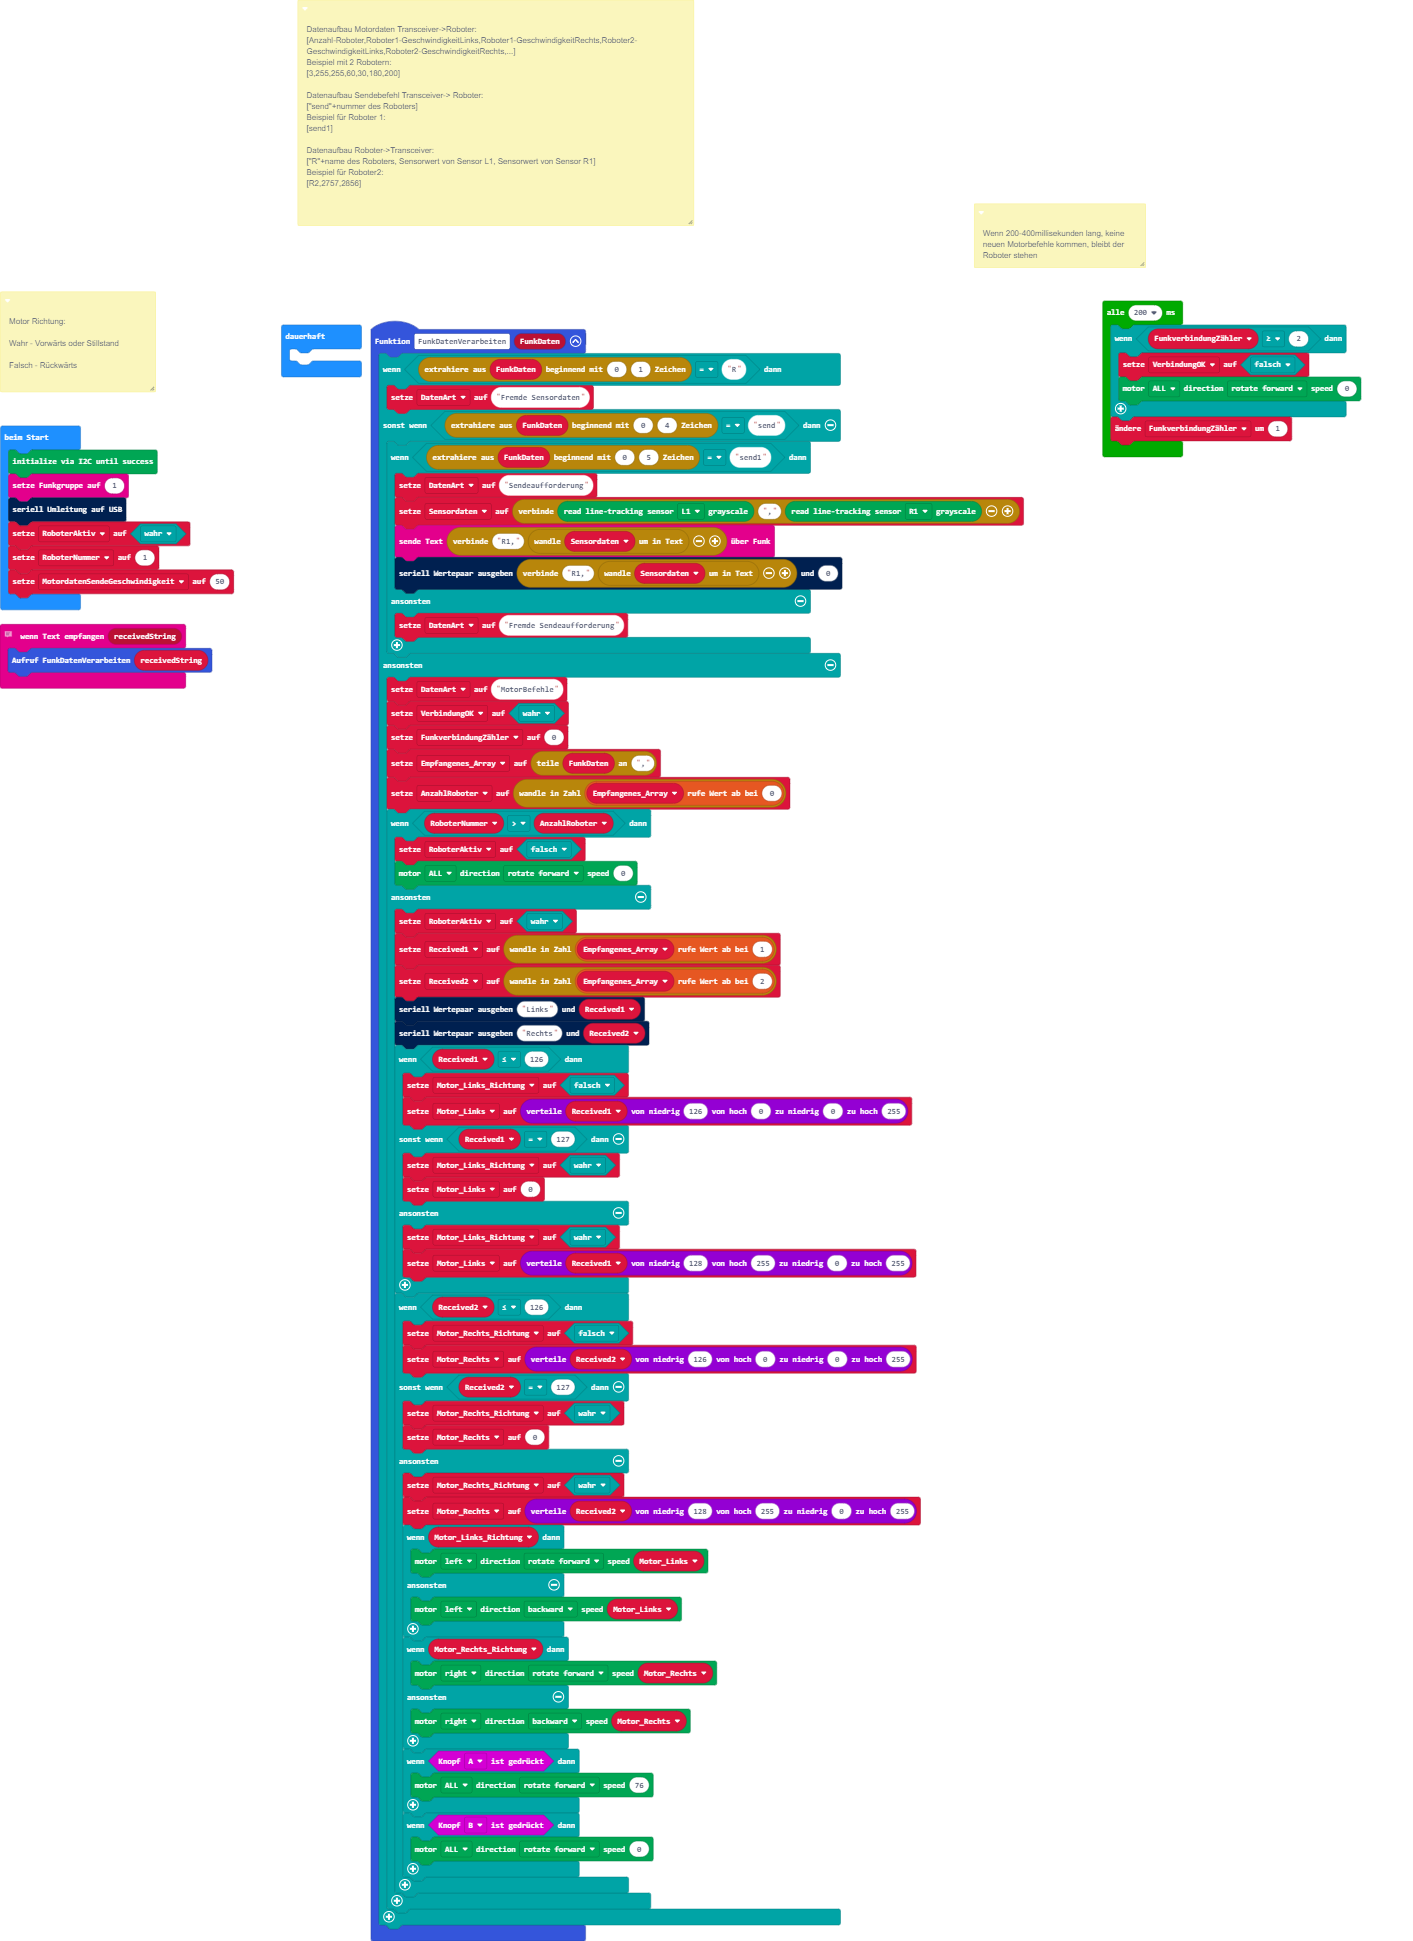
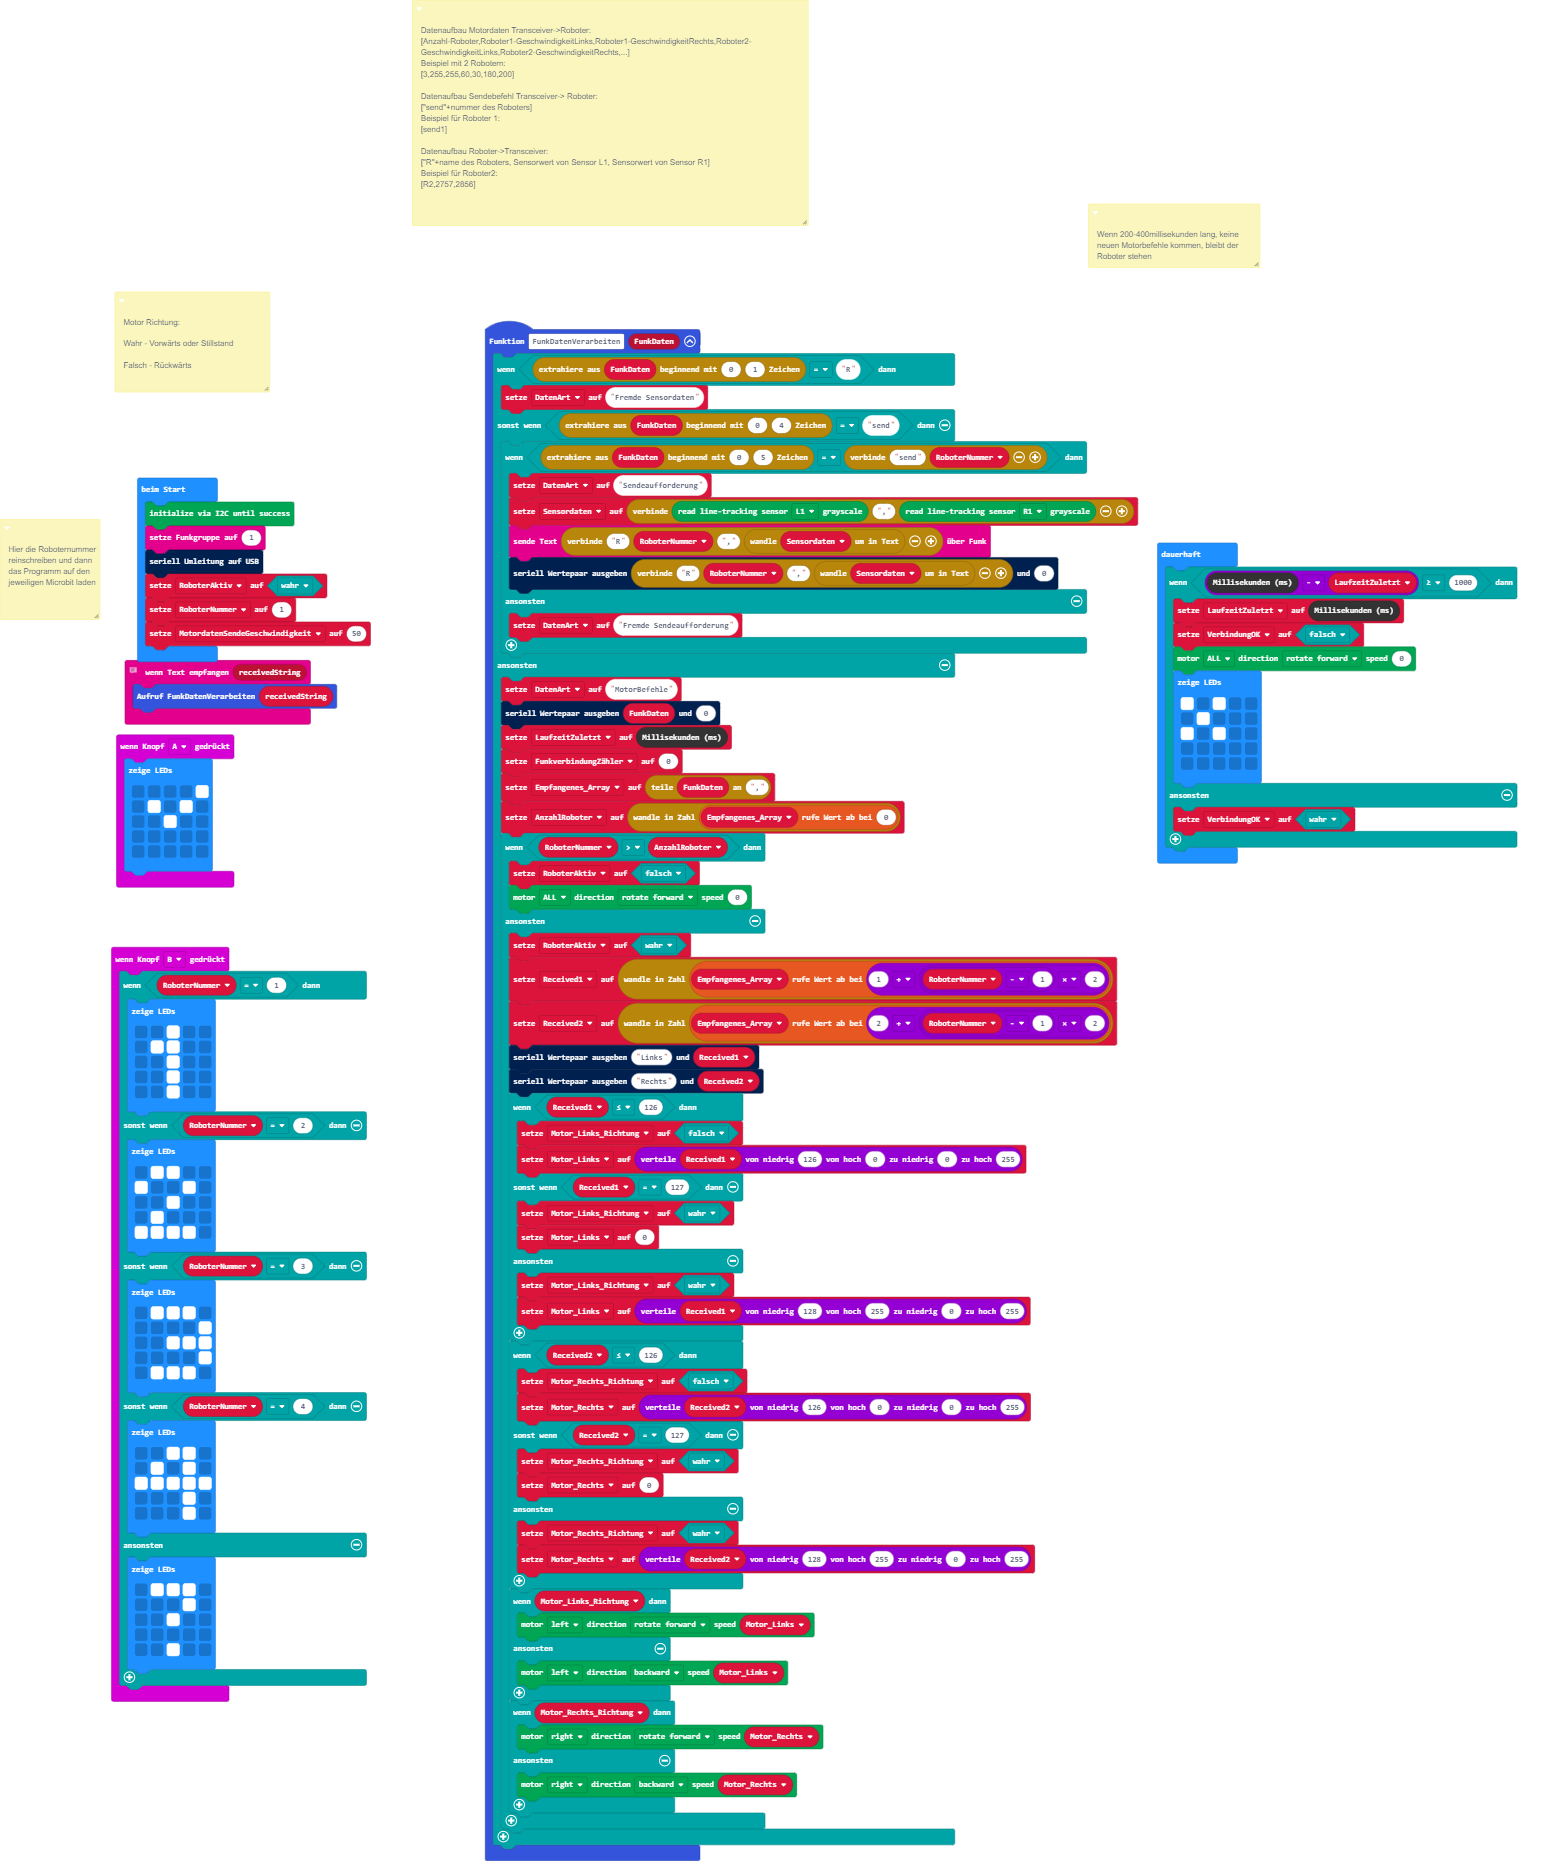
Aktualisiere main.blocks, main.ts

diff --git a/main.ts b/main.ts
@@ -33,21 +33,25 @@
  * 
  * Falsch - Rückwärts
  */
+/**
+ * Hier die Roboternummer reinschreiben und dann das Programm auf den jeweiligen Microbit laden
+ */
 function FunkDatenVerarbeiten (FunkDaten: string) {
     if (FunkDaten.substr(0, 1) == "R") {
         DatenArt = "Fremde Sensordaten"
     } else if (FunkDaten.substr(0, 4) == "send") {
-        if (FunkDaten.substr(0, 5) == "send1") {
+        if (FunkDaten.substr(0, 5) == "send" + RoboterNummer) {
             DatenArt = "Sendeaufforderung"
             Sensordaten = "" + DFRobotMaqueenPlus.readPatrolVoltage(Patrol.L1) + "," + DFRobotMaqueenPlus.readPatrolVoltage(Patrol.R1)
-            radio.sendString("R1," + convertToText(Sensordaten))
-            serial.writeValue("R1," + convertToText(Sensordaten), 0)
+            radio.sendString("R" + RoboterNummer + "," + convertToText(Sensordaten))
+            serial.writeValue("R" + RoboterNummer + "," + convertToText(Sensordaten), 0)
         } else {
             DatenArt = "Fremde Sendeaufforderung"
         }
     } else {
         DatenArt = "MotorBefehle"
-        VerbindungOK = true
+        serial.writeValue(FunkDaten, 0)
+        LaufzeitZuletzt = control.millis()
         FunkverbindungZähler = 0
         Empfangenes_Array = FunkDaten.split(",")
         AnzahlRoboter = parseFloat(Empfangenes_Array[0])
@@ -56,8 +60,8 @@ function FunkDatenVerarbeiten (FunkDaten: string) {
             DFRobotMaqueenPlus.mototRun(Motors.ALL, Dir.CW, 0)
         } else {
             RoboterAktiv = true
-            Received1 = parseFloat(Empfangenes_Array[1])
-            Received2 = parseFloat(Empfangenes_Array[2])
+            Received1 = parseFloat(Empfangenes_Array[1 + (RoboterNummer - 1) * 2])
+            Received2 = parseFloat(Empfangenes_Array[2 + (RoboterNummer - 1) * 2])
             serial.writeValue("Links", Received1)
             serial.writeValue("Rechts", Received2)
             if (Received1 <= 126) {
@@ -79,30 +83,77 @@ function FunkDatenVerarbeiten (FunkDaten: string) {
             } else {
                 Motor_Rechts_Richtung = true
                 Motor_Rechts = Math.map(Received2, 128, 255, 0, 255)
-                if (Motor_Links_Richtung) {
-                    DFRobotMaqueenPlus.mototRun(Motors.M1, Dir.CW, Motor_Links)
-                } else {
-                    DFRobotMaqueenPlus.mototRun(Motors.M1, Dir.CCW, Motor_Links)
-                }
-                if (Motor_Rechts_Richtung) {
-                    DFRobotMaqueenPlus.mototRun(Motors.M2, Dir.CW, Motor_Rechts)
-                } else {
-                    DFRobotMaqueenPlus.mototRun(Motors.M2, Dir.CCW, Motor_Rechts)
-                }
-                if (input.buttonIsPressed(Button.A)) {
-                    DFRobotMaqueenPlus.mototRun(Motors.ALL, Dir.CW, 76)
-                }
-                if (input.buttonIsPressed(Button.B)) {
-                    DFRobotMaqueenPlus.mototRun(Motors.ALL, Dir.CW, 0)
-                }
+            }
+            if (Motor_Links_Richtung) {
+                DFRobotMaqueenPlus.mototRun(Motors.M1, Dir.CW, Motor_Links)
+            } else {
+                DFRobotMaqueenPlus.mototRun(Motors.M1, Dir.CCW, Motor_Links)
+            }
+            if (Motor_Rechts_Richtung) {
+                DFRobotMaqueenPlus.mototRun(Motors.M2, Dir.CW, Motor_Rechts)
+            } else {
+                DFRobotMaqueenPlus.mototRun(Motors.M2, Dir.CCW, Motor_Rechts)
             }
         }
     }
 }
+input.onButtonPressed(Button.A, function () {
+    basic.showLeds(`
+        . . . . #
+        . # . # .
+        . . # . .
+        . . . . .
+        . . . . .
+        `)
+})
 // Zum testen
 radio.onReceivedString(function (receivedString) {
     FunkDatenVerarbeiten(receivedString)
 })
+input.onButtonPressed(Button.B, function () {
+    if (RoboterNummer == 1) {
+        basic.showLeds(`
+            . . # . .
+            . # # . .
+            . . # . .
+            . . # . .
+            . . # . .
+            `)
+    } else if (RoboterNummer == 2) {
+        basic.showLeds(`
+            . # # . .
+            # . . # .
+            . . # . .
+            . # . . .
+            # # # # .
+            `)
+    } else if (RoboterNummer == 3) {
+        basic.showLeds(`
+            . # # # .
+            . . . . #
+            . . # # #
+            . . . . #
+            . # # # .
+            `)
+    } else if (RoboterNummer == 4) {
+        basic.showLeds(`
+            . . # # .
+            . # . # .
+            # # # # #
+            . . . # .
+            . . . # .
+            `)
+    } else {
+        basic.showLeds(`
+            . # # # .
+            . . . # .
+            . . # . .
+            . . . . .
+            . . # . .
+            `)
+    }
+})
+let VerbindungOK = false
 let Motor_Rechts = 0
 let Motor_Rechts_Richtung = false
 let Motor_Links = 0
@@ -112,7 +163,7 @@ let Received1 = 0
 let AnzahlRoboter = 0
 let Empfangenes_Array: string[] = []
 let FunkverbindungZähler = 0
-let VerbindungOK = false
+let LaufzeitZuletzt = 0
 let Sensordaten = ""
 let DatenArt = ""
 let RoboterNummer = 0
@@ -124,12 +175,18 @@ RoboterAktiv = true
 RoboterNummer = 1
 let MotordatenSendeGeschwindigkeit = 50
 basic.forever(function () {
-	
-})
-loops.everyInterval(200, function () {
-    if (FunkverbindungZähler >= 2) {
+    if (control.millis() - LaufzeitZuletzt >= 1000) {
+        LaufzeitZuletzt = control.millis()
         VerbindungOK = false
         DFRobotMaqueenPlus.mototRun(Motors.ALL, Dir.CW, 0)
+        basic.showLeds(`
+            # . # . .
+            . # . . .
+            # . # . .
+            . . . . .
+            . . . . .
+            `)
+    } else {
+        VerbindungOK = true
     }
-    FunkverbindungZähler += 1
 })
